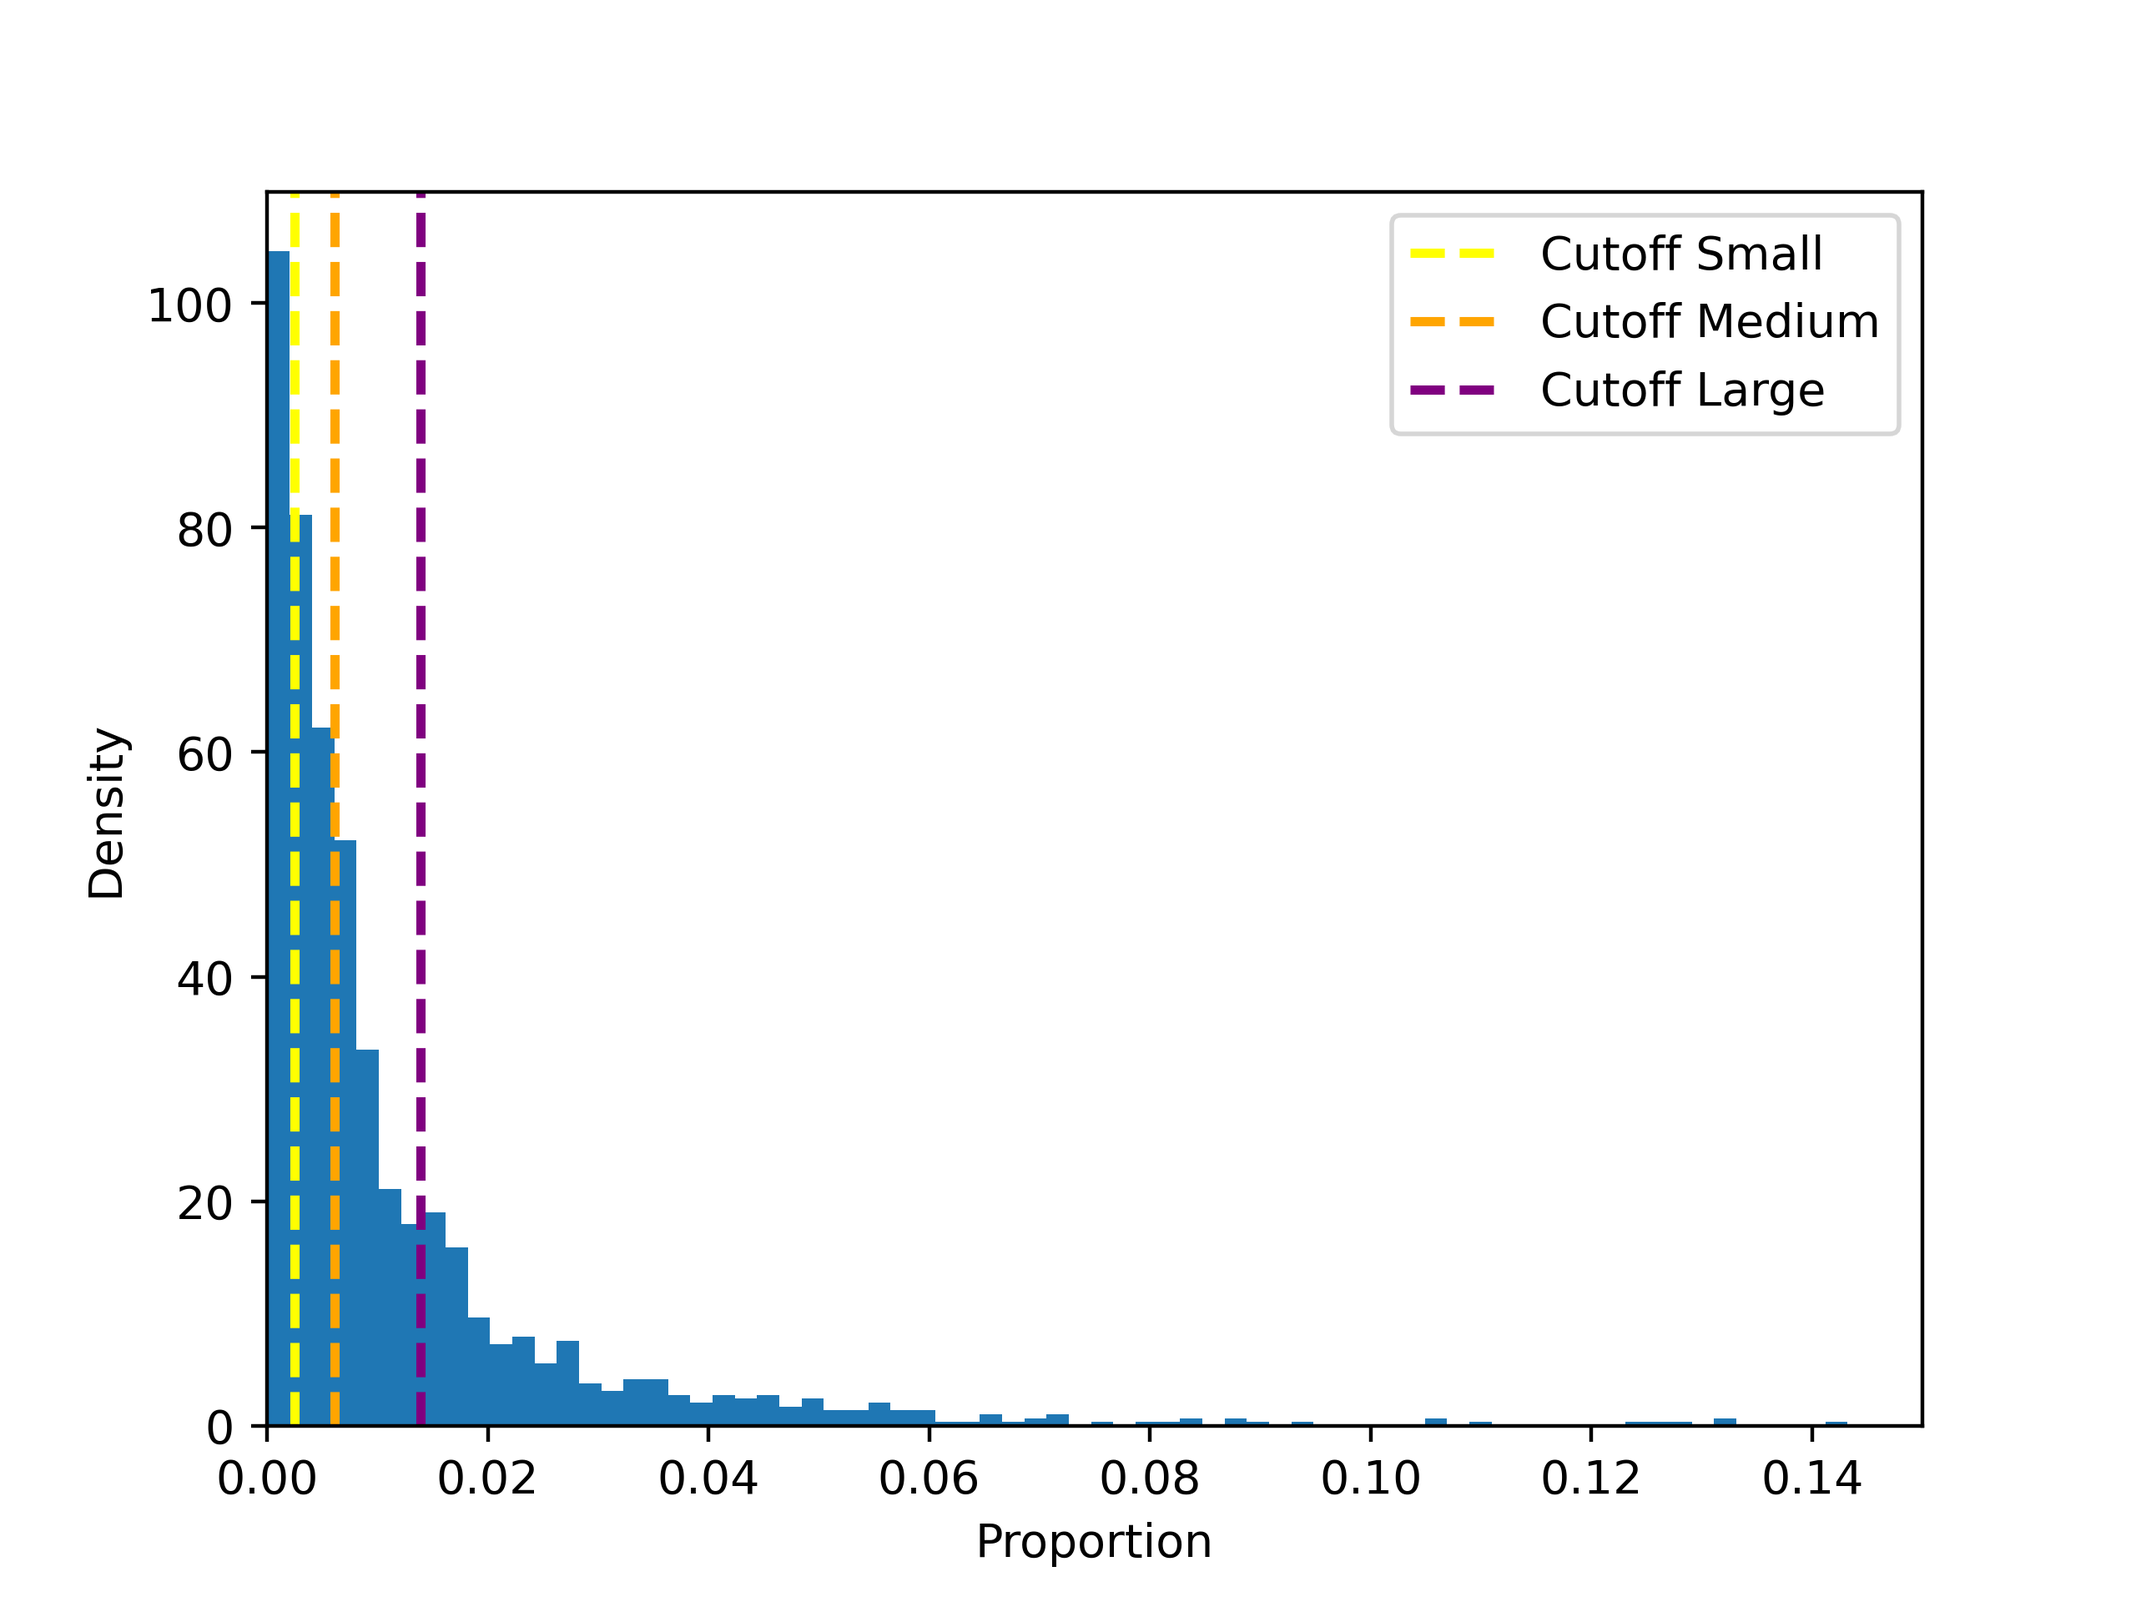
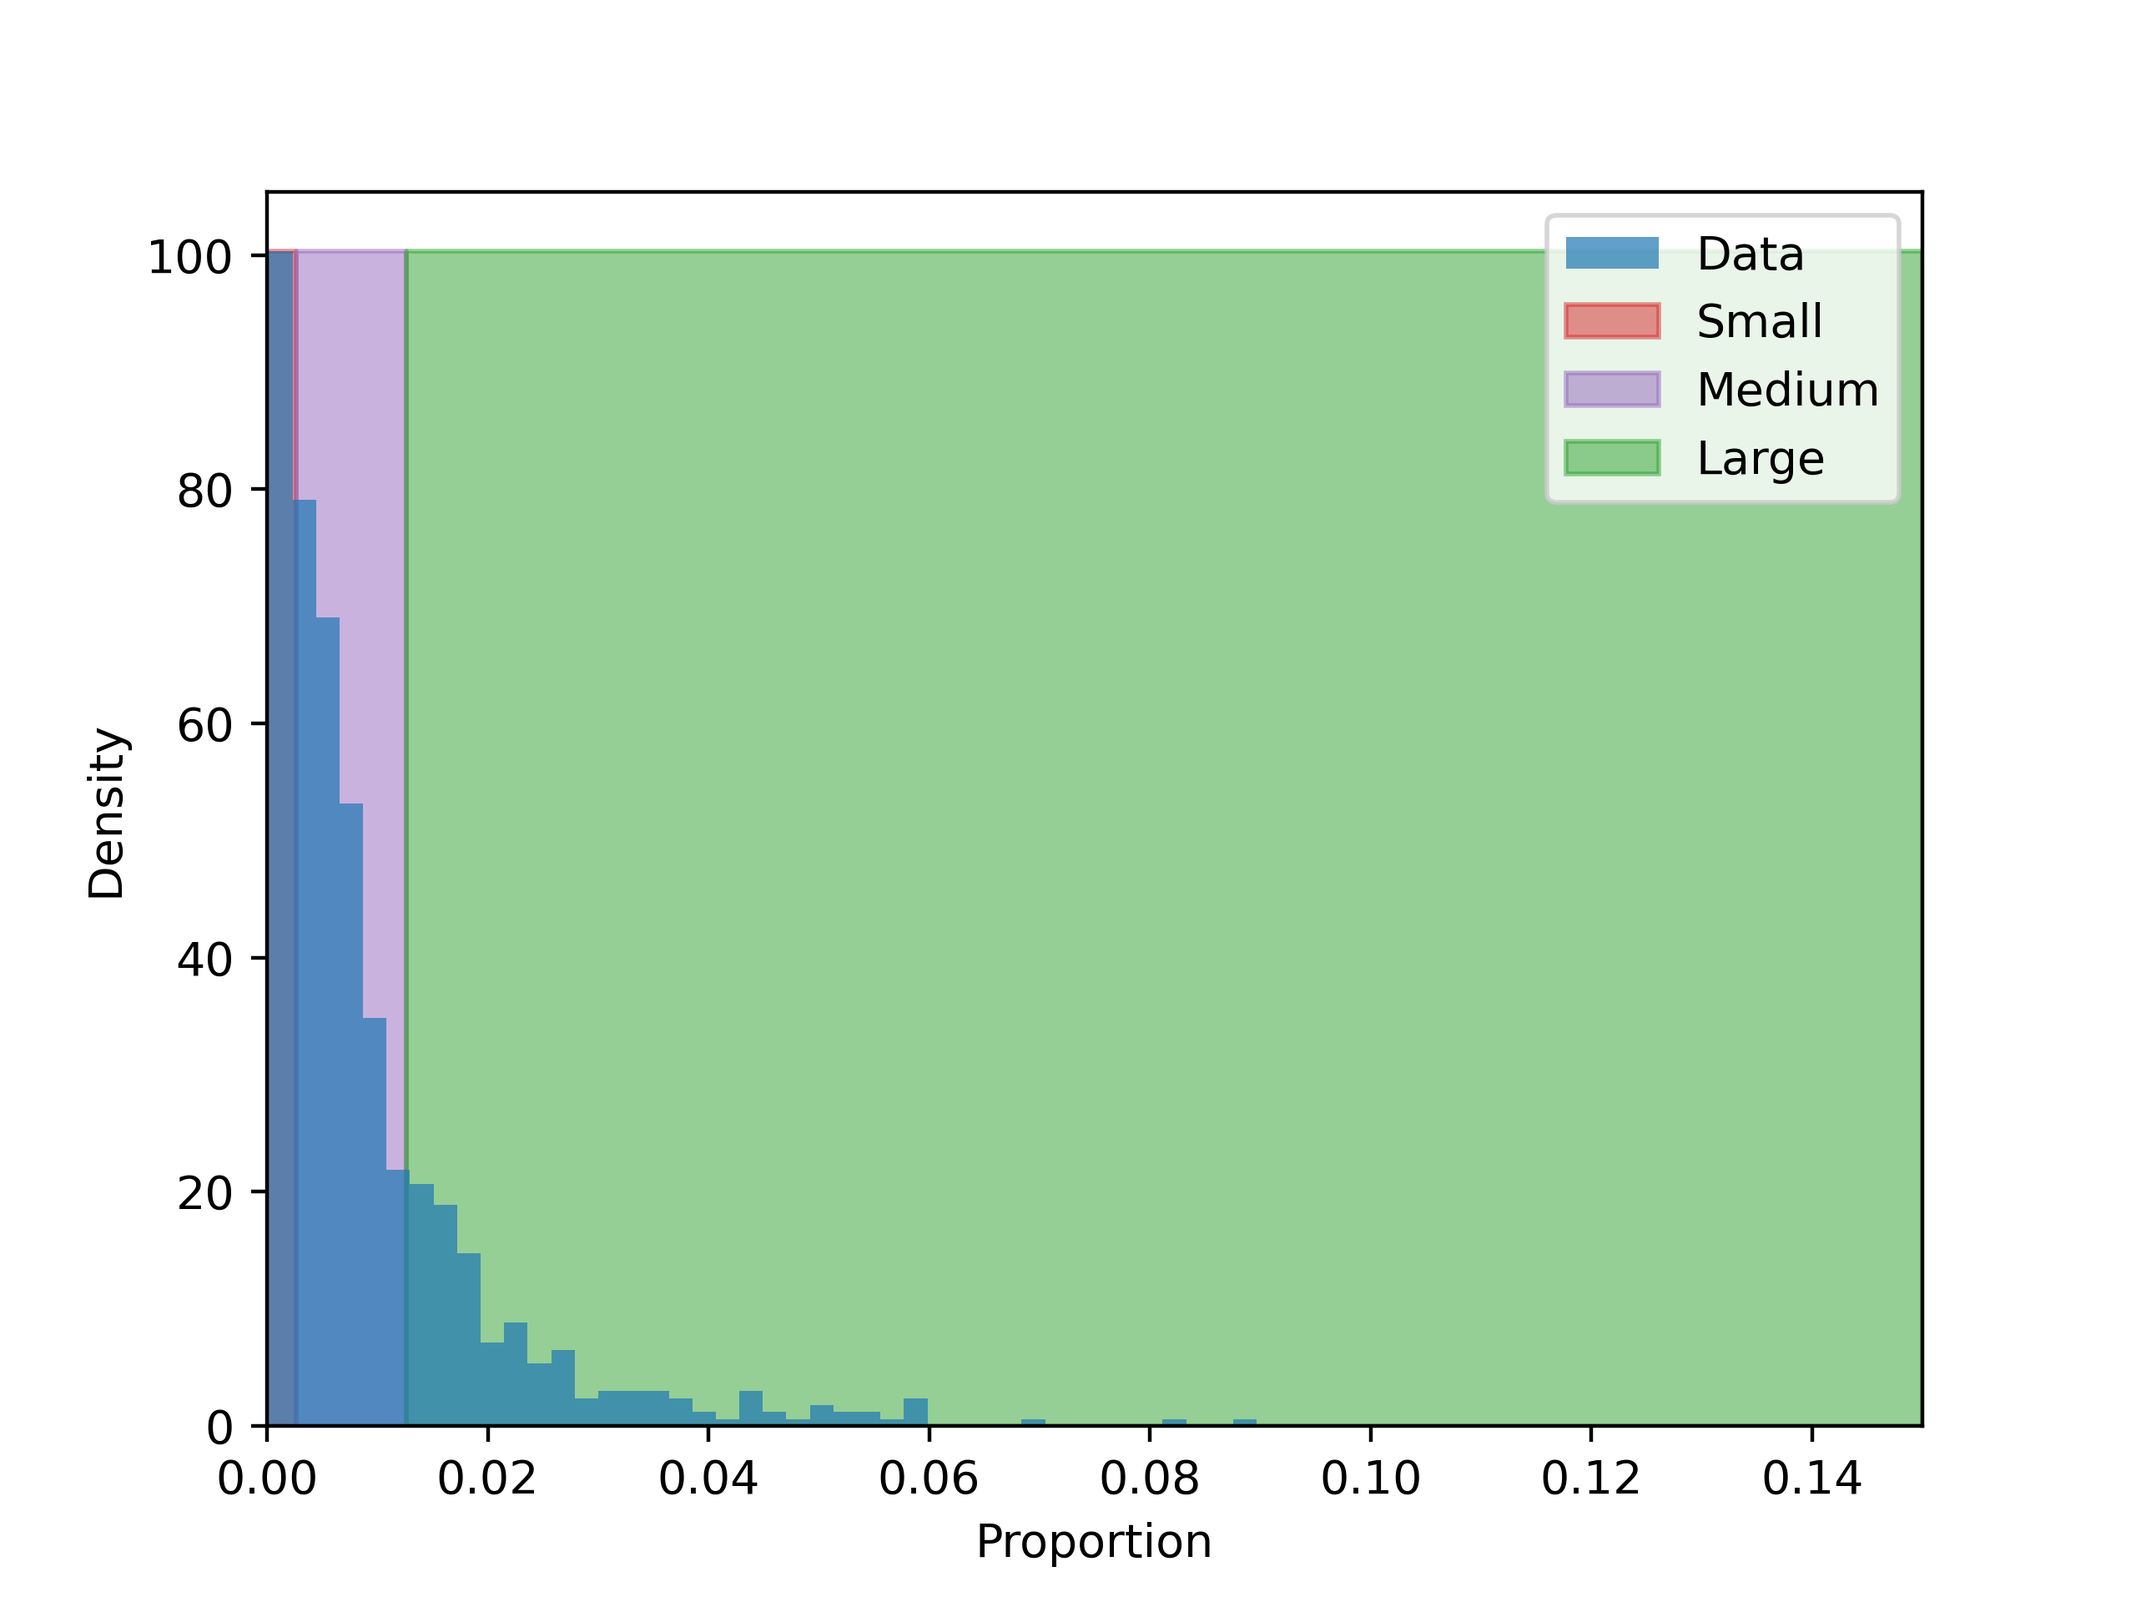
ADD: data generation

diff --git a/create_data.py b/create_data.py
@@ -7,28 +7,31 @@ from pandas import read_csv
 from sys import argv
 from os.path import exists
 from math import sqrt
-from random import uniform, sample
+from random import uniform#, sample
 from tensorflow.keras.utils import to_categorical
 from sklearn.model_selection import train_test_split
 from skimage.util import view_as_windows
 # from seaborn import kdeplot
-from matplotlib import patches
-
+# from matplotlib import patches
+from tensorflow.keras.preprocessing.image import ImageDataGenerator
 if argv[1] == 'small':
-    WINDOW_SIZE = 112
+    WINDOW_SIZE = 136
+    NUM_IMAGES = 5
     append_name = 'small'
 elif argv[1] == 'medium':
-    WINDOW_SIZE = 202
+    WINDOW_SIZE = 250
+    NUM_IMAGES = 5
     append_name = 'medium'
 elif argv[1] == 'large':
-    WINDOW_SIZE = 576
+    WINDOW_SIZE = 488
+    NUM_IMAGES = 2
     append_name = 'large'
 
 def read_df(path="/media/brianszekely/TOSHIBA EXT/mammogram_images/vindr-mammo-a-large-scale-benchmark-dataset-for-computer-aided-detection-and-diagnosis-in-full-field-digital-mammography-1.0.0"):
     df = read_csv(os.path.join(path,"finding_annotations.csv"))
     df['breast_birads'] = df['breast_birads'].str.replace('BI-RADS ', '')
     df['breast_birads'] = df['breast_birads'].astype(int)
-    return df[['study_id', 'image_id','view_position','breast_birads','xmin','xmax','ymin','ymax']]
+    return df[['study_id','finding_categories','image_id','view_position','breast_birads','xmin','xmax','ymin','ymax']]
 
 def convert_dicom_to_png(dicom_file: str) -> np.ndarray:
     """
@@ -137,19 +140,19 @@ def clahe(image):
     tile_s0 = 8
     tile_s1 = 8
     # Add white noise
-    noise = np.random.normal(0, 10, A_cv2.shape).astype(np.uint8)
-    noisy_image = cv2.add(A_cv2, noise)
-    noisy_image = np.clip(noisy_image, 0, 255)
-    #Apply Gblur
-    blurred_image = cv2.GaussianBlur(A_cv2, (5, 5), 0)
+    # noise = np.random.normal(0, 10, A_cv2.shape).astype(np.uint8)
+    # noisy_image = cv2.add(A_cv2, noise)
+    # noisy_image = np.clip(noisy_image, 0, 255)
+    # #Apply Gblur
+    # blurred_image = cv2.GaussianBlur(A_cv2, (5, 5), 0)
     #Apply CLAHE
     clahe = cv2.createCLAHE(clipLimit=1, tileGridSize=(tile_s0,tile_s1))
-    clahe_noise = clahe.apply(noisy_image)
-    clahe = cv2.createCLAHE(clipLimit=1, tileGridSize=(tile_s0,tile_s1))
-    clahe_blur = clahe.apply(blurred_image)
+    clahe_image = clahe.apply(A_cv2)
+    # clahe = cv2.createCLAHE(clipLimit=1, tileGridSize=(tile_s0,tile_s1))
+    # clahe_blur = clahe.apply(blurred_image)
     #Convert
-    clahe_blur = cv2.cvtColor(clahe_blur, cv2.COLOR_GRAY2RGB)   
-    clahe_noise = cv2.cvtColor(clahe_noise, cv2.COLOR_GRAY2RGB)  
+    clahe_image = cv2.cvtColor(clahe_image, cv2.COLOR_GRAY2RGB)   
+    # clahe_noise = cv2.cvtColor(clahe_noise, cv2.COLOR_GRAY2RGB)  
     # plt.figure()
     # plt.title('Original')
     # plt.imshow(A_cv2, cmap='gray')
@@ -160,14 +163,15 @@ def clahe(image):
     # plt.title('Blur + CLAHE')
     # plt.imshow(clahe_blur)
     # plt.show()
-    return [clahe_blur, clahe_noise]
+    return clahe_image
 
 def get_lesion_size(list_mass,list_all_values,image_shape):
     list_mass = [int(x) for x in list_mass]
     x_dist_lesion = list_mass[1] - list_mass[0]
     y_dist_lesion = list_mass[3] - list_mass[2]
-    #image area calculation
-    list_all_values.append((x_dist_lesion * y_dist_lesion) / (image_shape[0] * image_shape[1]))
+    #image area calculation 
+    image_area = (x_dist_lesion * y_dist_lesion) / (image_shape[0] * image_shape[1])
+    list_all_values.append(image_area)
     # #Euclidean distance
     # list_all_values.append(int(sqrt((list_mass[1] - list_mass[0])**2 + (list_mass[3] - list_mass[2])**2)))
     return list_all_values
@@ -178,7 +182,7 @@ def random_patch_abnormal(image,list_mass):
     Medium (Median): 344
     Large: 522.0
     """
-    window_size = WINDOW_SIZE/2
+    window_size = WINDOW_SIZE
     list_mass = [int(x) for x in list_mass]
     xmin, xmax, ymin, ymax = list_mass[0], list_mass[1], list_mass[2], list_mass[3]
     #iterate until sampled adequately
@@ -264,7 +268,7 @@ def random_patch_abnormal(image,list_mass):
     return np.array(save_lesion)
 
 def random_patch_normal(image,list_mass):
-    window_size = int(WINDOW_SIZE/2)
+    window_size = int(WINDOW_SIZE)
     patches = view_as_windows(image, (window_size, window_size, 3), step=(window_size, window_size, 3))
     shape_patches = np.shape(patches)
     xmin, xmax, ymin, ymax = list_mass[0], list_mass[1], list_mass[2], list_mass[3]
@@ -331,7 +335,7 @@ def create_small_medium_large(list_all_values):
     # if q3 % 2 != 0:  # Check if it's odd
     #     q3 += 1
     data_q1 = list_all_values[np.where(list_all_values < q1)[0]]
-    data_between_q1_q2 = list_all_values[np.where((list_all_values >= q1) & (list_all_values < q2))[0]]
+    data_between_q1_q2 = list_all_values[np.where((list_all_values >= q1) & (list_all_values < q3))[0]]
     data_q3 = list_all_values[np.where(list_all_values >= q3)[0]]
 
     mean_q1, std_q1 = np.mean(data_q1), np.std(data_q1)
@@ -355,45 +359,72 @@ def create_small_medium_large(list_all_values):
     plt.close()
     with open("quartiles.txt", "w") as file:
         file.write(f"Small: {q1}\n")
-        file.write(f"Medium (Median): {q2}\n")
+        file.write(f"(Median): {q2}\n")
         file.write(f"Large: {q3}\n")
 def main():
+    datagen = ImageDataGenerator(
+        rotation_range=45,  # 45 degree range for rotations - randomly
+        horizontal_flip=True,  # Random horiz flips
+        vertical_flip=True  # Random vert flips
+    )
     if not exists(f'X_train_{append_name}.npy'):
         glob_dir = '/media/brianszekely/TOSHIBA EXT/mammogram_images/vindr-mammo-a-large-scale-benchmark-dataset-for-computer-aided-detection-and-diagnosis-in-full-field-digital-mammography-1.0.0/images'
         df = read_df()
         df.dropna(inplace=True)
-        list_all_values = [] 
+        # list_all_values = [] 
         selected_arrays = []
         selected_arrays_non_lesion = []
-        combined_array = np.empty((0, WINDOW_SIZE, WINDOW_SIZE, 3), dtype=np.uint8)
+        # combined_array = np.empty((0, WINDOW_SIZE, WINDOW_SIZE, 3), dtype=np.uint8)
         for iteration, (index, row) in enumerate(df.iterrows()):
                 image_type = row['image_id'] + '.dicom'
                 dicom_path = os.path.join(glob_dir,row['study_id'],image_type)
                 if os.path.exists(dicom_path):
                     png_file = convert_dicom_to_png(dicom_path)
                     #abnormal images
-                    if row['breast_birads'] > 1:
+                    annotations = row['finding_categories']
+                    if row['breast_birads'] > 1 and "Mass" in annotations:
                         clahe_image = clahe(png_file)
                         # list_all_values = get_lesion_size([row['xmin'],row['xmax'],row['ymin'],row['ymax']],
-                        #                                   list_all_values,clahe_image[0].shape)
-                # if iteration > 9:
-                #     break
-    
-                    for ind_image in clahe_image:
-                        non_lesion_images = random_patch_normal(ind_image,[row['xmin'],row['xmax'],row['ymin'],row['ymax']])
-                        lesion_images = random_patch_abnormal(ind_image,[row['xmin'],row['xmax'],row['ymin'],row['ymax']])
+                        #                                   list_all_values,clahe_image.shape)
+                # print(f'percent finished: {(iteration / len(df))*100}')
+                    # for ind_image in clahe_image:
+                        non_lesion_images = random_patch_normal(clahe_image,[row['xmin'],row['xmax'],row['ymin'],row['ymax']])
+                        lesion_images = random_patch_abnormal(clahe_image,[row['xmin'],row['xmax'],row['ymin'],row['ymax']])
                         if lesion_images.shape[0] > 0:
-                            ran_select = np.random.choice(non_lesion_images.shape[0], size=lesion_images.shape[0], replace=False)
-                            non_lesion_images = non_lesion_images[ran_select]
-                            selected_arrays.append(lesion_images)
-                            selected_arrays_non_lesion.append(non_lesion_images)
-                print(f'percent finished: {(iteration / len(df))*100}')
+                            #augment_lesions
+                            save_augmented = []
+                            for i in range(lesion_images.shape[0]):
+                                for m in range(NUM_IMAGES):  # Generate 5 augmented images
+                                    augmented_img = datagen.random_transform(lesion_images[i, :, :, :])
+                                    save_augmented.append(augmented_img)
+                            save_np_augmented = np.array(save_augmented)
+
+                            #create equal number of abnormal and normal
+                            if lesion_images.shape[0] < non_lesion_images.shape[0]:
+                                ran_select = np.random.choice(non_lesion_images.shape[0], size=lesion_images.shape[0], replace=False)
+                                non_lesion_images = non_lesion_images[ran_select]
+
+                            #augment_non_lesions
+                            save_augmented_non = []
+                            for i in range(non_lesion_images.shape[0]):
+                                for m in range(NUM_IMAGES):  # Generate 5 augmented images
+                                    augmented_img = datagen.random_transform(non_lesion_images[i, :, :, :])
+                                    save_augmented_non.append(augmented_img)
+                            save_np_augmented_non = np.array(save_augmented_non)
+
+                            #Save data to lists
+                            selected_arrays.append(save_np_augmented)
+                            selected_arrays_non_lesion.append(save_np_augmented_non)
+                    print(f'percent finished: {(iteration / len(df))*100}')
                     # if non_lesion_images.shape[0] > 0: 
                     #     selected_arrays_non_lesion.append(non_lesion_images)
         combined_array_lesion = np.concatenate(selected_arrays, axis=0)
         combined_array_non_lesion = np.concatenate(selected_arrays_non_lesion, axis=0)
-        selected_indices = np.random.choice(combined_array_non_lesion.shape[0], size=combined_array_lesion.shape[0], replace=False)
-        combined_array_non_lesion_updated = combined_array_non_lesion[selected_indices]
+        if combined_array_lesion.shape[0] < combined_array_non_lesion.shape[0]:
+            selected_indices = np.random.choice(combined_array_non_lesion.shape[0], size=combined_array_lesion.shape[0], replace=False)
+            combined_array_non_lesion_updated = combined_array_non_lesion[selected_indices]
+        else:
+            combined_array_non_lesion_updated = combined_array_non_lesion
         print(np.shape(combined_array_lesion))
         print(np.shape(combined_array_non_lesion_updated))
         non_lesion_labels = np.zeros(combined_array_non_lesion_updated.shape[0])
@@ -415,18 +446,22 @@ def main():
 
 
 
-
-        #plot hist
+        # #plot hist
         # cutoff_small = np.percentile(list_all_values, 25)
         # cutoff_medium = np.percentile(list_all_values, 50)
         # cutoff_large = np.percentile(list_all_values, 75)
         # create_small_medium_large(list_all_values)
         # plt.figure()
-        # plt.hist(np.array(list_all_values).flatten(), bins='auto', color='tab:blue', density=True)
+        # hist, bins, _ = plt.hist(np.array(list_all_values).flatten(), bins='auto', color='tab:blue', density=True, alpha=0.7, label='Data')
+        # max_density = hist.max()
+        # # plt.hist(np.array(list_all_values).flatten(), bins='auto', color='tab:blue', density=True)
         # # kdeplot(Series(list_all_values).to_numpy(), color='red', label='KDE')
-        # plt.axvline(cutoff_small, color='yellow', linestyle='--', linewidth=2, label='Cutoff Small')
-        # plt.axvline(cutoff_medium, color='orange', linestyle='--', linewidth=2, label='Cutoff Medium')
-        # plt.axvline(cutoff_large, color='purple', linestyle='--', linewidth=2, label='Cutoff Large')
+        # # Shaded regions
+        # plt.fill_betweenx(y=[0, max_density], x1=0, x2=cutoff_small, color='tab:red', alpha=0.5, label='Small')
+        # plt.fill_betweenx(y=[0, max_density], x1=cutoff_small, x2=cutoff_large, color='tab:purple', alpha=0.5, label='Medium')
+        # plt.fill_betweenx(y=[0, max_density], x1=cutoff_large, x2=0.15, color='tab:green', alpha=0.5, label='Large')
+        # # plt.axvline(cutoff_small, color='tab:yellow', linestyle='--', linewidth=2)
+        # # plt.axvline(cutoff_large, color='tab:purple', linestyle='--', linewidth=2   )
         # plt.xlabel('Proportion')
         # plt.ylabel('Density')
         # plt.legend()
@@ -436,3 +471,16 @@ def main():
 
 if __name__ == "__main__":
     main()
+                        # if list_all_values[-1] > 0.05:
+                        #     plt.imshow(clahe_image, cmap='gray')
+                        #     xmin, xmax, ymin, ymax = [row['xmin'],row['xmax'],row['ymin'],row['ymax']]
+                        #     x_dist_lesion = xmax - xmin
+                        #     y_dist_lesion = ymax - ymin
+                        #     #the lesion
+                        #     bounding_box = patches.Rectangle((xmin, ymin), xmax - xmin, ymax - ymin, linewidth=1, edgecolor='r', label='lesion',facecolor='none')
+                        #     plt.gca().add_patch(bounding_box)
+                        #     # plt.tight_layout()
+                        #     plt.title(f'Large Lesion: {int(y_dist_lesion)} x {int(x_dist_lesion)} pixels')
+                        #     plt.legend()
+                        #     plt.savefig('large_lesion.png',dpi=400)
+                        #     plt.show()
